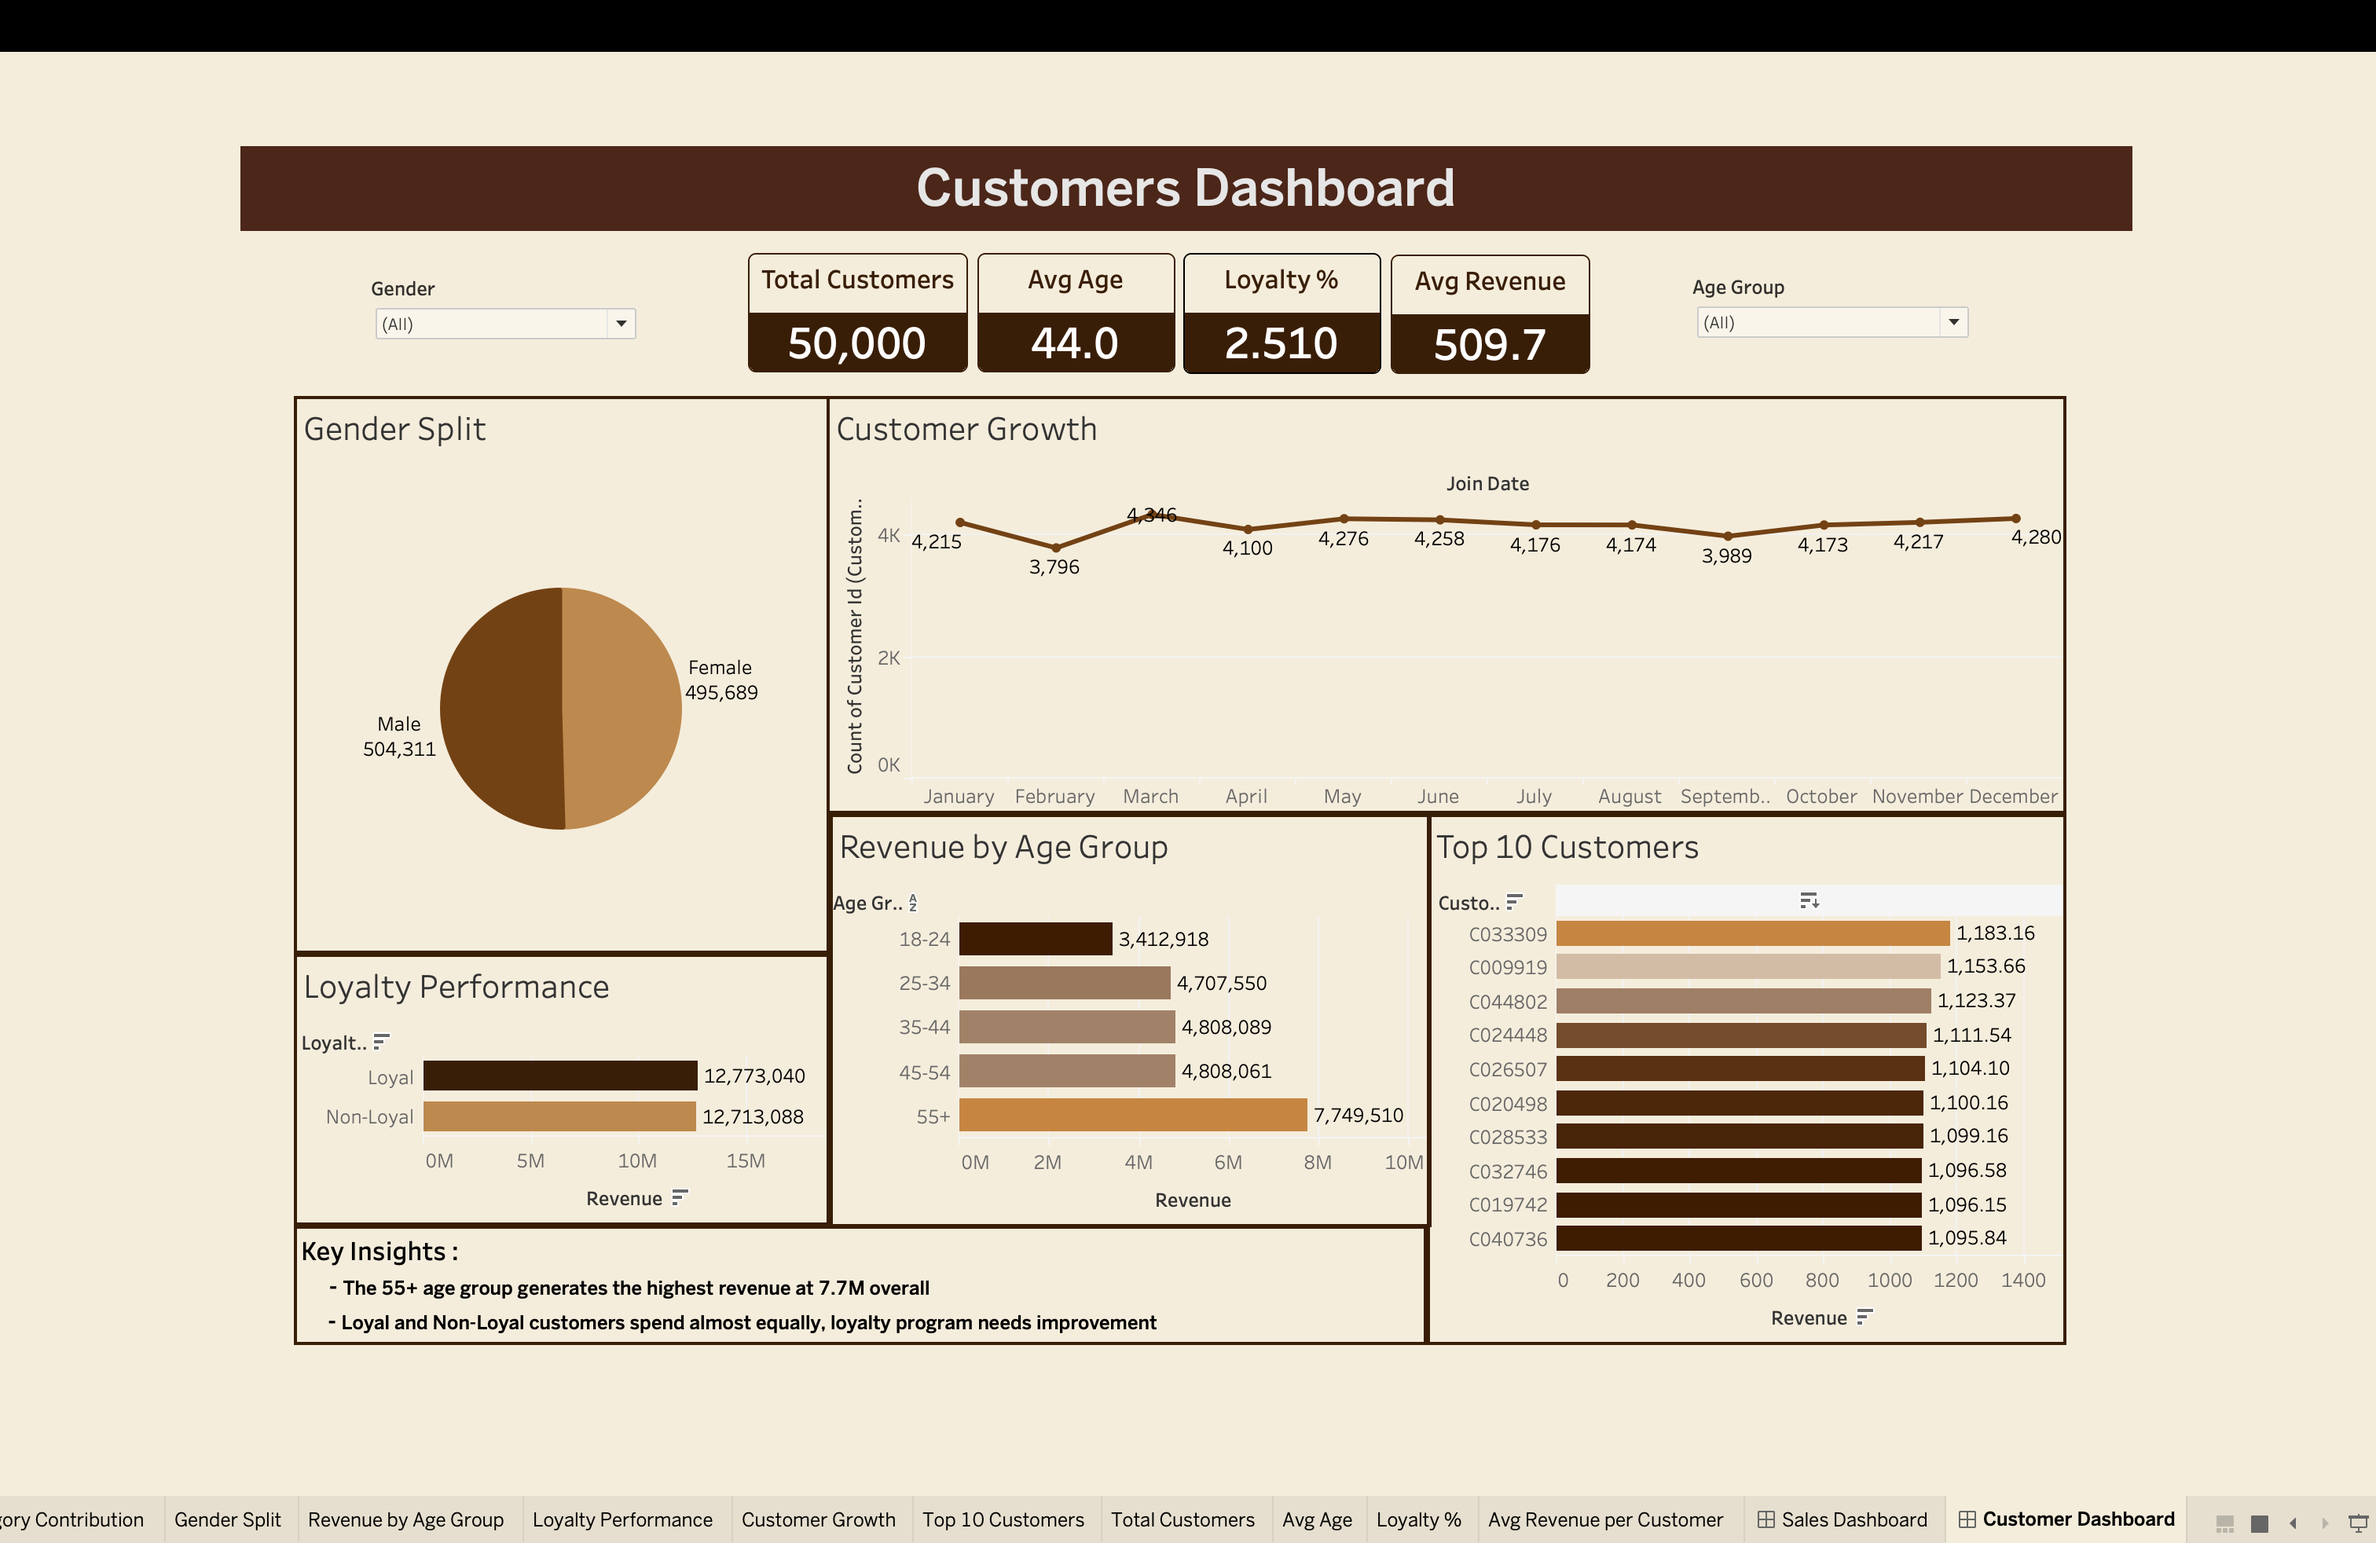
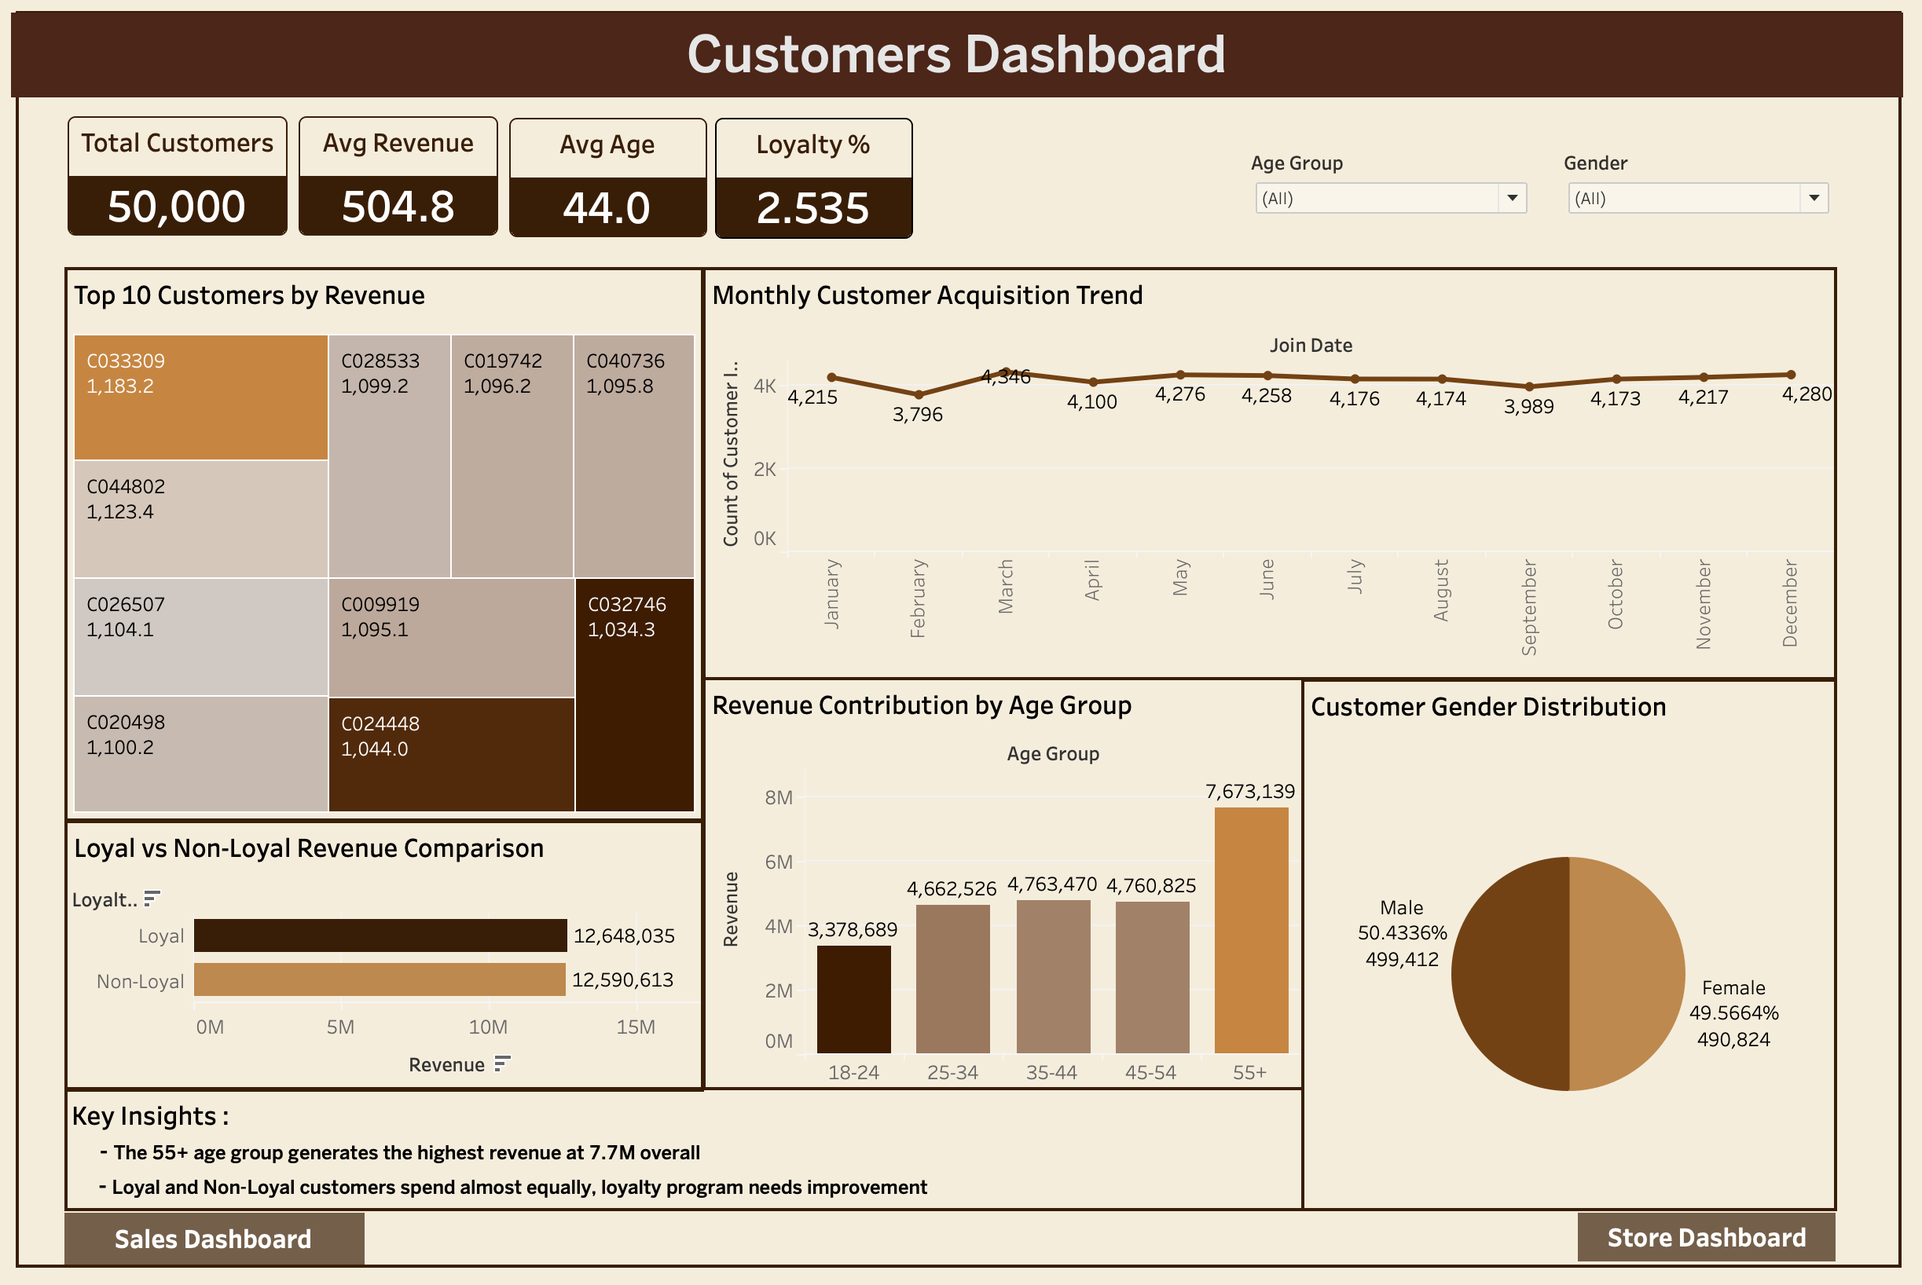
Updated Dashboard links

diff --git a/tableau/dashboard_links.md b/tableau/dashboard_links.md
@@ -1,1 +1,8 @@
-https://public.tableau.com/shared/BHNF8DNHJ?:display_count=n&:origin=viz_share_link
+Sales Dashboard
+https://public.tableau.com/views/Chocolate_Sales_G17/SalesDashboard?:language=en-GB&publish=yes&:sid=&:redirect=auth&:display_count=n&:origin=viz_share_link
+
+Customer Dashboard
+https://public.tableau.com/views/Chocolate_Sales_G17/CustomerDashboard?:language=en-GB&publish=yes&:sid=&:redirect=auth&:display_count=n&:origin=viz_share_link
+
+Stores Dashboard
+https://public.tableau.com/views/Chocolate_Sales_G17/StoreDashboard?:language=en-GB&publish=yes&:sid=&:redirect=auth&:display_count=n&:origin=viz_share_link
